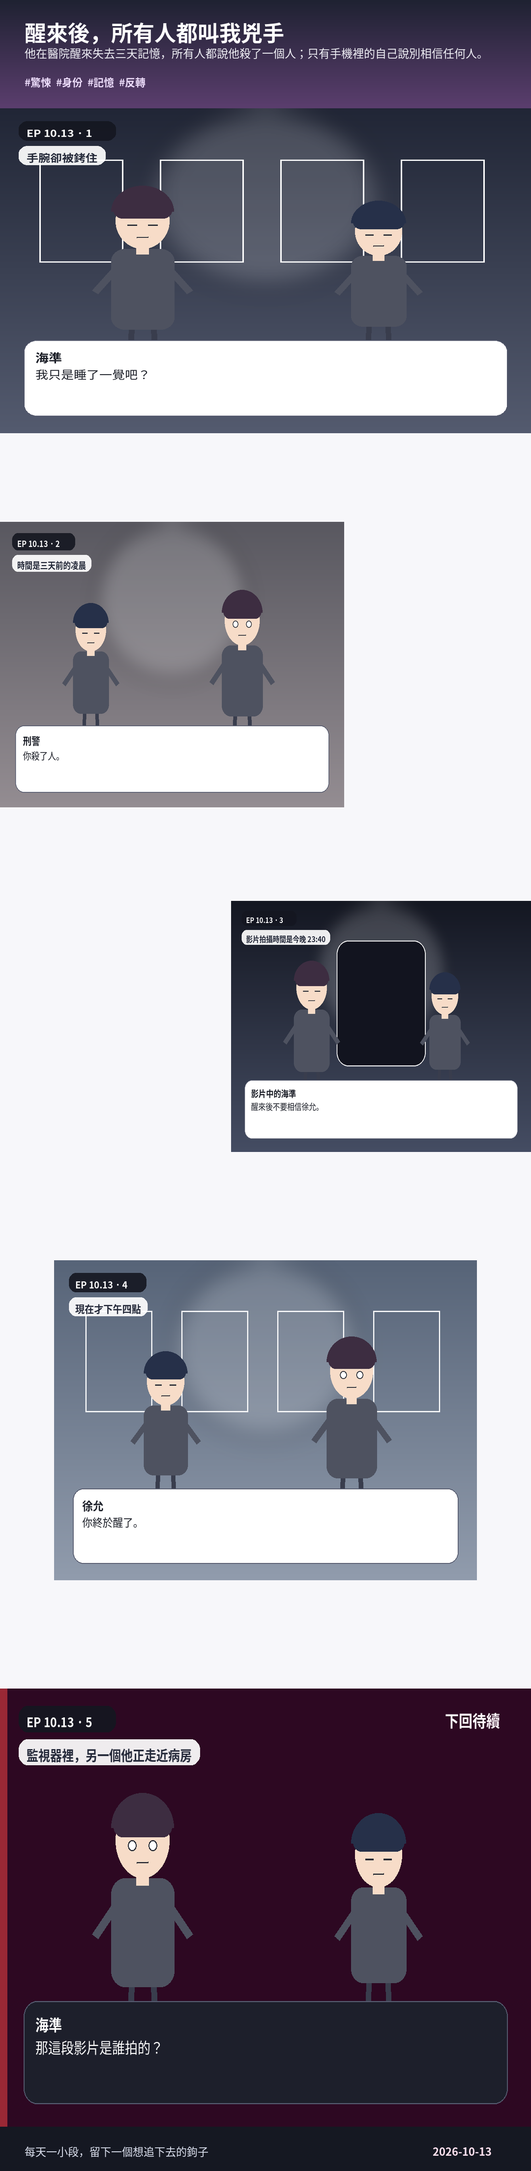
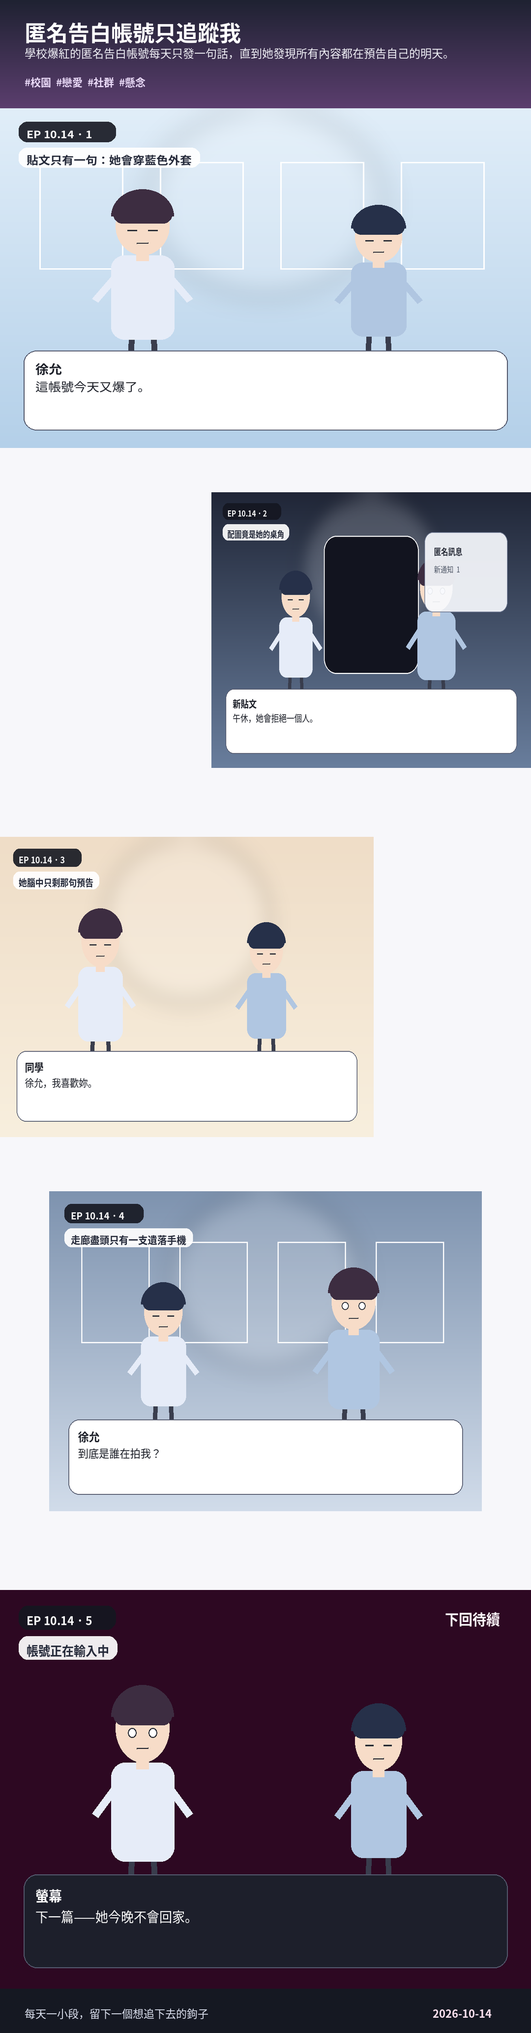
comic: daily webtoon update 2026-10-14

diff --git a/docs/index.html b/docs/index.html
@@ -1,1 +1,1 @@
-<!doctype html><html lang="zh-Hant"><meta charset="utf-8"><meta name="viewport" content="width=device-width,initial-scale=1"><title>每日一格宇宙</title><style>*{box-sizing:border-box}html{scroll-behavior:smooth}body{margin:0;background:#0b0d14;color:#f1f4ff;font-family:-apple-system,BlinkMacSystemFont,"Segoe UI","Noto Sans TC",sans-serif}#bar{position:fixed;top:0;left:0;height:3px;width:0;background:linear-gradient(90deg,#dec7f5,#ffd0e0);z-index:20}nav{position:sticky;top:3px;z-index:10;background:#0b0d14dd;backdrop-filter:blur(12px);border-bottom:1px solid #ffffff12;padding:11px 18px}nav div{max-width:1120px;margin:auto;display:flex;gap:16px;align-items:center}nav b{flex:1}nav a{color:inherit;text-decoration:none;font-size:13px}.hero{max-width:1120px;margin:auto;padding:56px 20px 44px;display:grid;grid-template-columns:1.1fr .9fr;gap:26px;align-items:end}h1{font-size:clamp(50px,8vw,88px);line-height:.9;margin:8px 0 18px;letter-spacing:-.06em}.hero p{color:#a4aec8;line-height:1.8}.tags{display:flex;gap:8px;flex-wrap:wrap}.tags span{border:1px solid #ffffff18;background:#ffffff08;border-radius:999px;padding:7px 11px;font-size:12px}.cover{padding:13px;border:1px solid #ffffff12;border-radius:24px;background:#ffffff08}.cover img{width:100%;display:block;border-radius:16px;aspect-ratio:4/5;object-fit:cover;object-position:top}.reader{background:#f7f7fa;color:#171922;padding:40px 0 70px}.head{width:min(820px,calc(100% - 32px));margin:0 auto 42px}.head h2{font-size:clamp(34px,6vw,56px);margin:5px 0 10px;letter-spacing:-.04em}.head p{color:#686c7c;line-height:1.7}.col{width:min(820px,100%);margin:auto;display:flex;flex-direction:column;align-items:center}.p{display:flex;margin:0 0 var(--g);width:100%}.p.left{justify-content:flex-start}.p.right{justify-content:flex-end}.p.center{justify-content:center}.p img{display:block;width:100%;box-shadow:0 12px 30px #1112}.hero.p,.reveal{width:100%}.support{width:76%}.clue{width:60%}.tension{width:82%}.end{width:min(820px,calc(100% - 32px));margin:40px auto 0;background:#171b29;color:white;border-radius:20px;padding:24px;text-align:center}.archive{max-width:1120px;margin:auto;padding:56px 20px 80px}.grid{display:grid;grid-template-columns:repeat(auto-fill,minmax(230px,1fr));gap:15px}.card{color:inherit;text-decoration:none;background:#ffffff08;border:1px solid #ffffff12;border-radius:18px;overflow:hidden}.card img{width:100%;aspect-ratio:3/4;object-fit:cover;object-position:top}.card div{padding:13px}.card b,.card small{display:block}.card small{color:#909bb4;margin:5px 0}.card p{font-size:13px;line-height:1.55;color:#dfe5f5}@media(max-width:820px){.hero{grid-template-columns:1fr}.support{width:84%}.clue{width:70%}.tension{width:90%}}</style><body><div id="bar"></div><nav><div><b>每日一格宇宙</b><span>醒來後，所有人都叫我兇手</span><a href="#archive">連載庫</a></div></nav><header class="hero"><div><small>DAILY VERTICAL COMIC</small><h1>每日一格宇宙</h1><p>每天更新一篇原創直式網漫，依熱門類型調整節奏、鏡頭與分鏡語言<br>不等寬分鏡、長留白、左右偏移與滿版揭露格，讓閱讀速度也成為劇情的一部分。</p><div class="tags"><span>#驚悚</span><span>#身份</span><span>#記憶</span><span>#反轉</span></div></div><a class="cover" href="#reader"><img src="latest.png"></a></header><main class="reader" id="reader"><section class="head"><small>LATEST EPISODE · 2026-10-13</small><h2>醒來後，所有人都叫我兇手</h2><p>他在醫院醒來失去三天記憶，所有人都說他殺了一個人；只有手機裡的自己說別相信任何人。</p></section><section class="col"><figure class="p hero center" style="--g:180px"><img src="episodes/2026-10-13/panel-1.png"></figure><figure class="p support left" style="--g:190px"><img src="episodes/2026-10-13/panel-2.png"></figure><figure class="p clue right" style="--g:220px"><img src="episodes/2026-10-13/panel-3.png"></figure><figure class="p tension center" style="--g:220px"><img src="episodes/2026-10-13/panel-4.png"></figure><figure class="p reveal center" style="--g:0px"><img src="episodes/2026-10-13/panel-5.png"></figure></section><div class="end"><b>下回待續</b><br><small>明天 08:30 自動更新</small></div></main><section class="archive" id="archive"><h2>連載檔案庫</h2><div class="grid"><a class="card" href="comics/2026-10-13.png"><img src="comics/2026-10-13.png"><div><b>醒來後，所有人都叫我兇手</b><small>2026-10-13</small><p>他在醫院醒來失去三天記憶，所有人都說他殺了一個人；只有手機裡的自己說別相信任何人。</p></div></a><a class="card" href="comics/2026-10-12.png"><img src="comics/2026-10-12.png"><div><b>只限今晚的男朋友</b><small>2026-10-12</small><p>為了躲過前任的婚宴，她臨時找上公司最難接近的人假扮男友；但他早就準備好了戒指盒。</p></div></a><a class="card" href="comics/2026-10-11.png"><img src="comics/2026-10-11.png"><div><b>右滑之後，她消失了</b><small>2026-10-11</small><p>朋友逼她玩一款沒有上架紀錄的交友 App；每次右滑，現實裡就會少一個人。</p></div></a><a class="card" href="comics/2026-10-10.png"><img src="comics/2026-10-10.png"><div><b>全班只有我看得到她</b><small>2026-10-10</small><p>轉學生坐在最後一排整整一週，所有人卻堅持那張座位一直是空的。</p></div></a><a class="card" href="comics/2026-10-09.png"><img src="comics/2026-10-09.png"><div><b>被逐出師門那天，我重生了</b><small>2026-10-09</small><p>前世被廢武功逐出山門的弟子醒回入門第一天，這一次他決定先找到真正背叛宗門的人。</p></div></a><a class="card" href="comics/2026-10-08.png"><img src="comics/2026-10-08.png"><div><b>別在離婚後才說愛我</b><small>2026-10-08</small><p>簽完離婚協議那晚，她第一次聽見丈夫說「不要走」；可門外已經有人替她拿好了行李。</p></div></a><a class="card" href="comics/2026-10-07.png"><img src="comics/2026-10-07.png"><div><b>別在離婚後才說愛我</b><small>2026-10-07</small><p>簽完離婚協議那晚，她第一次聽見丈夫說「不要走」；可門外已經有人替她拿好了行李。</p></div></a><a class="card" href="comics/2026-10-06.png"><img src="comics/2026-10-06.png"><div><b>最弱獵人今天不想升級</b><small>2026-10-06</small><p>被所有人認定最弱的獵人突然看見只有自己能讀的「拒絕升級」任務，而獎勵是改寫一次死亡。</p></div></a><a class="card" href="comics/2026-10-05.png"><img src="comics/2026-10-05.png"><div><b>右滑之後，她消失了</b><small>2026-10-05</small><p>朋友逼她玩一款沒有上架紀錄的交友 App；每次右滑，現實裡就會少一個人。</p></div></a><a class="card" href="comics/2026-10-04.png"><img src="comics/2026-10-04.png"><div><b>醒來後，所有人都叫我兇手</b><small>2026-10-04</small><p>他在醫院醒來失去三天記憶，所有人都說他殺了一個人；只有手機裡的自己說別相信任何人。</p></div></a><a class="card" href="comics/2026-10-03.png"><img src="comics/2026-10-03.png"><div><b>匿名告白帳號只追蹤我</b><small>2026-10-03</small><p>學校爆紅的匿名告白帳號每天只發一句話，直到她發現所有內容都在預告自己的明天。</p></div></a><a class="card" href="comics/2026-10-02.png"><img src="comics/2026-10-02.png"><div><b>只限今晚的男朋友</b><small>2026-10-02</small><p>為了躲過前任的婚宴，她臨時找上公司最難接近的人假扮男友；但他早就準備好了戒指盒。</p></div></a><a class="card" href="comics/2026-10-01.png"><img src="comics/2026-10-01.png"><div><b>右滑之後，她消失了</b><small>2026-10-01</small><p>朋友逼她玩一款沒有上架紀錄的交友 App；每次右滑，現實裡就會少一個人。</p></div></a><a class="card" href="comics/2026-09-30.png"><img src="comics/2026-09-30.png"><div><b>全班只有我看得到她</b><small>2026-09-30</small><p>轉學生坐在最後一排整整一週，所有人卻堅持那張座位一直是空的。</p></div></a><a class="card" href="comics/2026-09-29.png"><img src="comics/2026-09-29.png"><div><b>右滑之後，她消失了</b><small>2026-09-29</small><p>朋友逼她玩一款沒有上架紀錄的交友 App；每次右滑，現實裡就會少一個人。</p></div></a><a class="card" href="comics/2026-09-28.png"><img src="comics/2026-09-28.png"><div><b>被逐出師門那天，我重生了</b><small>2026-09-28</small><p>前世被廢武功逐出山門的弟子醒回入門第一天，這一次他決定先找到真正背叛宗門的人。</p></div></a><a class="card" href="comics/2026-09-27.png"><img src="comics/2026-09-27.png"><div><b>全班只有我看得到她</b><small>2026-09-27</small><p>轉學生坐在最後一排整整一週，所有人卻堅持那張座位一直是空的。</p></div></a><a class="card" href="comics/2026-09-26.png"><img src="comics/2026-09-26.png"><div><b>別在離婚後才說愛我</b><small>2026-09-26</small><p>簽完離婚協議那晚，她第一次聽見丈夫說「不要走」；可門外已經有人替她拿好了行李。</p></div></a><a class="card" href="comics/2026-09-25.png"><img src="comics/2026-09-25.png"><div><b>最弱獵人今天不想升級</b><small>2026-09-25</small><p>被所有人認定最弱的獵人突然看見只有自己能讀的「拒絕升級」任務，而獎勵是改寫一次死亡。</p></div></a><a class="card" href="comics/2026-09-24.png"><img src="comics/2026-09-24.png"><div><b>別在離婚後才說愛我</b><small>2026-09-24</small><p>簽完離婚協議那晚，她第一次聽見丈夫說「不要走」；可門外已經有人替她拿好了行李。</p></div></a><a class="card" href="comics/2026-09-23.png"><img src="comics/2026-09-23.png"><div><b>醒來後，所有人都叫我兇手</b><small>2026-09-23</small><p>他在醫院醒來失去三天記憶，所有人都說他殺了一個人；只有手機裡的自己說別相信任何人。</p></div></a><a class="card" href="comics/2026-09-22.png"><img src="comics/2026-09-22.png"><div><b>匿名告白帳號只追蹤我</b><small>2026-09-22</small><p>學校爆紅的匿名告白帳號每天只發一句話，直到她發現所有內容都在預告自己的明天。</p></div></a><a class="card" href="comics/2026-09-21.png"><img src="comics/2026-09-21.png"><div><b>只限今晚的男朋友</b><small>2026-09-21</small><p>為了躲過前任的婚宴，她臨時找上公司最難接近的人假扮男友；但他早就準備好了戒指盒。</p></div></a><a class="card" href="comics/2026-09-20.png"><img src="comics/2026-09-20.png"><div><b>最弱獵人今天不想升級</b><small>2026-09-20</small><p>被所有人認定最弱的獵人突然看見只有自己能讀的「拒絕升級」任務，而獎勵是改寫一次死亡。</p></div></a><a class="card" href="comics/2026-09-19.png"><img src="comics/2026-09-19.png"><div><b>右滑之後，她消失了</b><small>2026-09-19</small><p>朋友逼她玩一款沒有上架紀錄的交友 App；每次右滑，現實裡就會少一個人。</p></div></a><a class="card" href="comics/2026-09-18.png"><img src="comics/2026-09-18.png"><div><b>全班只有我看得到她</b><small>2026-09-18</small><p>轉學生坐在最後一排整整一週，所有人卻堅持那張座位一直是空的。</p></div></a><a class="card" href="comics/2026-09-17.png"><img src="comics/2026-09-17.png"><div><b>被逐出師門那天，我重生了</b><small>2026-09-17</small><p>前世被廢武功逐出山門的弟子醒回入門第一天，這一次他決定先找到真正背叛宗門的人。</p></div></a><a class="card" href="comics/2026-09-16.png"><img src="comics/2026-09-16.png"><div><b>最弱獵人今天不想升級</b><small>2026-09-16</small><p>被所有人認定最弱的獵人突然看見只有自己能讀的「拒絕升級」任務，而獎勵是改寫一次死亡。</p></div></a><a class="card" href="comics/2026-09-15.png"><img src="comics/2026-09-15.png"><div><b>醒來後，所有人都叫我兇手</b><small>2026-09-15</small><p>他在醫院醒來失去三天記憶，所有人都說他殺了一個人；只有手機裡的自己說別相信任何人。</p></div></a><a class="card" href="comics/2026-09-14.png"><img src="comics/2026-09-14.png"><div><b>右滑之後，她消失了</b><small>2026-09-14</small><p>朋友逼她玩一款沒有上架紀錄的交友 App；每次右滑，現實裡就會少一個人。</p></div></a><a class="card" href="comics/2026-09-13.png"><img src="comics/2026-09-13.png"><div><b>別在離婚後才說愛我</b><small>2026-09-13</small><p>簽完離婚協議那晚，她第一次聽見丈夫說「不要走」；可門外已經有人替她拿好了行李。</p></div></a><a class="card" href="comics/2026-09-12.png"><img src="comics/2026-09-12.png"><div><b>匿名告白帳號只追蹤我</b><small>2026-09-12</small><p>學校爆紅的匿名告白帳號每天只發一句話，直到她發現所有內容都在預告自己的明天。</p></div></a><a class="card" href="comics/2026-09-11.png"><img src="comics/2026-09-11.png"><div><b>匿名告白帳號只追蹤我</b><small>2026-09-11</small><p>學校爆紅的匿名告白帳號每天只發一句話，直到她發現所有內容都在預告自己的明天。</p></div></a><a class="card" href="comics/2026-09-10.png"><img src="comics/2026-09-10.png"><div><b>只限今晚的男朋友</b><small>2026-09-10</small><p>為了躲過前任的婚宴，她臨時找上公司最難接近的人假扮男友；但他早就準備好了戒指盒。</p></div></a><a class="card" href="comics/2026-09-09.png"><img src="comics/2026-09-09.png"><div><b>被逐出師門那天，我重生了</b><small>2026-09-09</small><p>前世被廢武功逐出山門的弟子醒回入門第一天，這一次他決定先找到真正背叛宗門的人。</p></div></a><a class="card" href="comics/2026-09-08.png"><img src="comics/2026-09-08.png"><div><b>最弱獵人今天不想升級</b><small>2026-09-08</small><p>被所有人認定最弱的獵人突然看見只有自己能讀的「拒絕升級」任務，而獎勵是改寫一次死亡。</p></div></a></div></section><script>const b=document.getElementById('bar');function u(){let m=document.documentElement.scrollHeight-innerHeight;b.style.width=(m?scrollY/m*100:0)+'%'}addEventListener('scroll',u,{passive:true});u()</script></body></html>
+<!doctype html><html lang="zh-Hant"><meta charset="utf-8"><meta name="viewport" content="width=device-width,initial-scale=1"><title>每日一格宇宙</title><style>*{box-sizing:border-box}html{scroll-behavior:smooth}body{margin:0;background:#0b0d14;color:#f1f4ff;font-family:-apple-system,BlinkMacSystemFont,"Segoe UI","Noto Sans TC",sans-serif}#bar{position:fixed;top:0;left:0;height:3px;width:0;background:linear-gradient(90deg,#dec7f5,#ffd0e0);z-index:20}nav{position:sticky;top:3px;z-index:10;background:#0b0d14dd;backdrop-filter:blur(12px);border-bottom:1px solid #ffffff12;padding:11px 18px}nav div{max-width:1120px;margin:auto;display:flex;gap:16px;align-items:center}nav b{flex:1}nav a{color:inherit;text-decoration:none;font-size:13px}.hero{max-width:1120px;margin:auto;padding:56px 20px 44px;display:grid;grid-template-columns:1.1fr .9fr;gap:26px;align-items:end}h1{font-size:clamp(50px,8vw,88px);line-height:.9;margin:8px 0 18px;letter-spacing:-.06em}.hero p{color:#a4aec8;line-height:1.8}.tags{display:flex;gap:8px;flex-wrap:wrap}.tags span{border:1px solid #ffffff18;background:#ffffff08;border-radius:999px;padding:7px 11px;font-size:12px}.cover{padding:13px;border:1px solid #ffffff12;border-radius:24px;background:#ffffff08}.cover img{width:100%;display:block;border-radius:16px;aspect-ratio:4/5;object-fit:cover;object-position:top}.reader{background:#f7f7fa;color:#171922;padding:40px 0 70px}.head{width:min(820px,calc(100% - 32px));margin:0 auto 42px}.head h2{font-size:clamp(34px,6vw,56px);margin:5px 0 10px;letter-spacing:-.04em}.head p{color:#686c7c;line-height:1.7}.col{width:min(820px,100%);margin:auto;display:flex;flex-direction:column;align-items:center}.p{display:flex;margin:0 0 var(--g);width:100%}.p.left{justify-content:flex-start}.p.right{justify-content:flex-end}.p.center{justify-content:center}.p img{display:block;width:100%;box-shadow:0 12px 30px #1112}.hero.p,.reveal{width:100%}.support{width:76%}.clue{width:60%}.tension{width:82%}.end{width:min(820px,calc(100% - 32px));margin:40px auto 0;background:#171b29;color:white;border-radius:20px;padding:24px;text-align:center}.archive{max-width:1120px;margin:auto;padding:56px 20px 80px}.grid{display:grid;grid-template-columns:repeat(auto-fill,minmax(230px,1fr));gap:15px}.card{color:inherit;text-decoration:none;background:#ffffff08;border:1px solid #ffffff12;border-radius:18px;overflow:hidden}.card img{width:100%;aspect-ratio:3/4;object-fit:cover;object-position:top}.card div{padding:13px}.card b,.card small{display:block}.card small{color:#909bb4;margin:5px 0}.card p{font-size:13px;line-height:1.55;color:#dfe5f5}@media(max-width:820px){.hero{grid-template-columns:1fr}.support{width:84%}.clue{width:70%}.tension{width:90%}}</style><body><div id="bar"></div><nav><div><b>每日一格宇宙</b><span>匿名告白帳號只追蹤我</span><a href="#archive">連載庫</a></div></nav><header class="hero"><div><small>DAILY VERTICAL COMIC</small><h1>每日一格宇宙</h1><p>每天更新一篇原創直式網漫，依熱門類型調整節奏、鏡頭與分鏡語言<br>不等寬分鏡、長留白、左右偏移與滿版揭露格，讓閱讀速度也成為劇情的一部分。</p><div class="tags"><span>#校園</span><span>#戀愛</span><span>#社群</span><span>#懸念</span></div></div><a class="cover" href="#reader"><img src="latest.png"></a></header><main class="reader" id="reader"><section class="head"><small>LATEST EPISODE · 2026-10-14</small><h2>匿名告白帳號只追蹤我</h2><p>學校爆紅的匿名告白帳號每天只發一句話，直到她發現所有內容都在預告自己的明天。</p></section><section class="col"><figure class="p hero center" style="--g:90px"><img src="episodes/2026-10-14/panel-1.png"></figure><figure class="p support right" style="--g:140px"><img src="episodes/2026-10-14/panel-2.png"></figure><figure class="p clue left" style="--g:110px"><img src="episodes/2026-10-14/panel-3.png"></figure><figure class="p tension center" style="--g:160px"><img src="episodes/2026-10-14/panel-4.png"></figure><figure class="p reveal center" style="--g:0px"><img src="episodes/2026-10-14/panel-5.png"></figure></section><div class="end"><b>下回待續</b><br><small>明天 08:30 自動更新</small></div></main><section class="archive" id="archive"><h2>連載檔案庫</h2><div class="grid"><a class="card" href="comics/2026-10-14.png"><img src="comics/2026-10-14.png"><div><b>匿名告白帳號只追蹤我</b><small>2026-10-14</small><p>學校爆紅的匿名告白帳號每天只發一句話，直到她發現所有內容都在預告自己的明天。</p></div></a><a class="card" href="comics/2026-10-13.png"><img src="comics/2026-10-13.png"><div><b>醒來後，所有人都叫我兇手</b><small>2026-10-13</small><p>他在醫院醒來失去三天記憶，所有人都說他殺了一個人；只有手機裡的自己說別相信任何人。</p></div></a><a class="card" href="comics/2026-10-12.png"><img src="comics/2026-10-12.png"><div><b>只限今晚的男朋友</b><small>2026-10-12</small><p>為了躲過前任的婚宴，她臨時找上公司最難接近的人假扮男友；但他早就準備好了戒指盒。</p></div></a><a class="card" href="comics/2026-10-11.png"><img src="comics/2026-10-11.png"><div><b>右滑之後，她消失了</b><small>2026-10-11</small><p>朋友逼她玩一款沒有上架紀錄的交友 App；每次右滑，現實裡就會少一個人。</p></div></a><a class="card" href="comics/2026-10-10.png"><img src="comics/2026-10-10.png"><div><b>全班只有我看得到她</b><small>2026-10-10</small><p>轉學生坐在最後一排整整一週，所有人卻堅持那張座位一直是空的。</p></div></a><a class="card" href="comics/2026-10-09.png"><img src="comics/2026-10-09.png"><div><b>被逐出師門那天，我重生了</b><small>2026-10-09</small><p>前世被廢武功逐出山門的弟子醒回入門第一天，這一次他決定先找到真正背叛宗門的人。</p></div></a><a class="card" href="comics/2026-10-08.png"><img src="comics/2026-10-08.png"><div><b>別在離婚後才說愛我</b><small>2026-10-08</small><p>簽完離婚協議那晚，她第一次聽見丈夫說「不要走」；可門外已經有人替她拿好了行李。</p></div></a><a class="card" href="comics/2026-10-07.png"><img src="comics/2026-10-07.png"><div><b>別在離婚後才說愛我</b><small>2026-10-07</small><p>簽完離婚協議那晚，她第一次聽見丈夫說「不要走」；可門外已經有人替她拿好了行李。</p></div></a><a class="card" href="comics/2026-10-06.png"><img src="comics/2026-10-06.png"><div><b>最弱獵人今天不想升級</b><small>2026-10-06</small><p>被所有人認定最弱的獵人突然看見只有自己能讀的「拒絕升級」任務，而獎勵是改寫一次死亡。</p></div></a><a class="card" href="comics/2026-10-05.png"><img src="comics/2026-10-05.png"><div><b>右滑之後，她消失了</b><small>2026-10-05</small><p>朋友逼她玩一款沒有上架紀錄的交友 App；每次右滑，現實裡就會少一個人。</p></div></a><a class="card" href="comics/2026-10-04.png"><img src="comics/2026-10-04.png"><div><b>醒來後，所有人都叫我兇手</b><small>2026-10-04</small><p>他在醫院醒來失去三天記憶，所有人都說他殺了一個人；只有手機裡的自己說別相信任何人。</p></div></a><a class="card" href="comics/2026-10-03.png"><img src="comics/2026-10-03.png"><div><b>匿名告白帳號只追蹤我</b><small>2026-10-03</small><p>學校爆紅的匿名告白帳號每天只發一句話，直到她發現所有內容都在預告自己的明天。</p></div></a><a class="card" href="comics/2026-10-02.png"><img src="comics/2026-10-02.png"><div><b>只限今晚的男朋友</b><small>2026-10-02</small><p>為了躲過前任的婚宴，她臨時找上公司最難接近的人假扮男友；但他早就準備好了戒指盒。</p></div></a><a class="card" href="comics/2026-10-01.png"><img src="comics/2026-10-01.png"><div><b>右滑之後，她消失了</b><small>2026-10-01</small><p>朋友逼她玩一款沒有上架紀錄的交友 App；每次右滑，現實裡就會少一個人。</p></div></a><a class="card" href="comics/2026-09-30.png"><img src="comics/2026-09-30.png"><div><b>全班只有我看得到她</b><small>2026-09-30</small><p>轉學生坐在最後一排整整一週，所有人卻堅持那張座位一直是空的。</p></div></a><a class="card" href="comics/2026-09-29.png"><img src="comics/2026-09-29.png"><div><b>右滑之後，她消失了</b><small>2026-09-29</small><p>朋友逼她玩一款沒有上架紀錄的交友 App；每次右滑，現實裡就會少一個人。</p></div></a><a class="card" href="comics/2026-09-28.png"><img src="comics/2026-09-28.png"><div><b>被逐出師門那天，我重生了</b><small>2026-09-28</small><p>前世被廢武功逐出山門的弟子醒回入門第一天，這一次他決定先找到真正背叛宗門的人。</p></div></a><a class="card" href="comics/2026-09-27.png"><img src="comics/2026-09-27.png"><div><b>全班只有我看得到她</b><small>2026-09-27</small><p>轉學生坐在最後一排整整一週，所有人卻堅持那張座位一直是空的。</p></div></a><a class="card" href="comics/2026-09-26.png"><img src="comics/2026-09-26.png"><div><b>別在離婚後才說愛我</b><small>2026-09-26</small><p>簽完離婚協議那晚，她第一次聽見丈夫說「不要走」；可門外已經有人替她拿好了行李。</p></div></a><a class="card" href="comics/2026-09-25.png"><img src="comics/2026-09-25.png"><div><b>最弱獵人今天不想升級</b><small>2026-09-25</small><p>被所有人認定最弱的獵人突然看見只有自己能讀的「拒絕升級」任務，而獎勵是改寫一次死亡。</p></div></a><a class="card" href="comics/2026-09-24.png"><img src="comics/2026-09-24.png"><div><b>別在離婚後才說愛我</b><small>2026-09-24</small><p>簽完離婚協議那晚，她第一次聽見丈夫說「不要走」；可門外已經有人替她拿好了行李。</p></div></a><a class="card" href="comics/2026-09-23.png"><img src="comics/2026-09-23.png"><div><b>醒來後，所有人都叫我兇手</b><small>2026-09-23</small><p>他在醫院醒來失去三天記憶，所有人都說他殺了一個人；只有手機裡的自己說別相信任何人。</p></div></a><a class="card" href="comics/2026-09-22.png"><img src="comics/2026-09-22.png"><div><b>匿名告白帳號只追蹤我</b><small>2026-09-22</small><p>學校爆紅的匿名告白帳號每天只發一句話，直到她發現所有內容都在預告自己的明天。</p></div></a><a class="card" href="comics/2026-09-21.png"><img src="comics/2026-09-21.png"><div><b>只限今晚的男朋友</b><small>2026-09-21</small><p>為了躲過前任的婚宴，她臨時找上公司最難接近的人假扮男友；但他早就準備好了戒指盒。</p></div></a><a class="card" href="comics/2026-09-20.png"><img src="comics/2026-09-20.png"><div><b>最弱獵人今天不想升級</b><small>2026-09-20</small><p>被所有人認定最弱的獵人突然看見只有自己能讀的「拒絕升級」任務，而獎勵是改寫一次死亡。</p></div></a><a class="card" href="comics/2026-09-19.png"><img src="comics/2026-09-19.png"><div><b>右滑之後，她消失了</b><small>2026-09-19</small><p>朋友逼她玩一款沒有上架紀錄的交友 App；每次右滑，現實裡就會少一個人。</p></div></a><a class="card" href="comics/2026-09-18.png"><img src="comics/2026-09-18.png"><div><b>全班只有我看得到她</b><small>2026-09-18</small><p>轉學生坐在最後一排整整一週，所有人卻堅持那張座位一直是空的。</p></div></a><a class="card" href="comics/2026-09-17.png"><img src="comics/2026-09-17.png"><div><b>被逐出師門那天，我重生了</b><small>2026-09-17</small><p>前世被廢武功逐出山門的弟子醒回入門第一天，這一次他決定先找到真正背叛宗門的人。</p></div></a><a class="card" href="comics/2026-09-16.png"><img src="comics/2026-09-16.png"><div><b>最弱獵人今天不想升級</b><small>2026-09-16</small><p>被所有人認定最弱的獵人突然看見只有自己能讀的「拒絕升級」任務，而獎勵是改寫一次死亡。</p></div></a><a class="card" href="comics/2026-09-15.png"><img src="comics/2026-09-15.png"><div><b>醒來後，所有人都叫我兇手</b><small>2026-09-15</small><p>他在醫院醒來失去三天記憶，所有人都說他殺了一個人；只有手機裡的自己說別相信任何人。</p></div></a><a class="card" href="comics/2026-09-14.png"><img src="comics/2026-09-14.png"><div><b>右滑之後，她消失了</b><small>2026-09-14</small><p>朋友逼她玩一款沒有上架紀錄的交友 App；每次右滑，現實裡就會少一個人。</p></div></a><a class="card" href="comics/2026-09-13.png"><img src="comics/2026-09-13.png"><div><b>別在離婚後才說愛我</b><small>2026-09-13</small><p>簽完離婚協議那晚，她第一次聽見丈夫說「不要走」；可門外已經有人替她拿好了行李。</p></div></a><a class="card" href="comics/2026-09-12.png"><img src="comics/2026-09-12.png"><div><b>匿名告白帳號只追蹤我</b><small>2026-09-12</small><p>學校爆紅的匿名告白帳號每天只發一句話，直到她發現所有內容都在預告自己的明天。</p></div></a><a class="card" href="comics/2026-09-11.png"><img src="comics/2026-09-11.png"><div><b>匿名告白帳號只追蹤我</b><small>2026-09-11</small><p>學校爆紅的匿名告白帳號每天只發一句話，直到她發現所有內容都在預告自己的明天。</p></div></a><a class="card" href="comics/2026-09-10.png"><img src="comics/2026-09-10.png"><div><b>只限今晚的男朋友</b><small>2026-09-10</small><p>為了躲過前任的婚宴，她臨時找上公司最難接近的人假扮男友；但他早就準備好了戒指盒。</p></div></a><a class="card" href="comics/2026-09-09.png"><img src="comics/2026-09-09.png"><div><b>被逐出師門那天，我重生了</b><small>2026-09-09</small><p>前世被廢武功逐出山門的弟子醒回入門第一天，這一次他決定先找到真正背叛宗門的人。</p></div></a></div></section><script>const b=document.getElementById('bar');function u(){let m=document.documentElement.scrollHeight-innerHeight;b.style.width=(m?scrollY/m*100:0)+'%'}addEventListener('scroll',u,{passive:true});u()</script></body></html>
